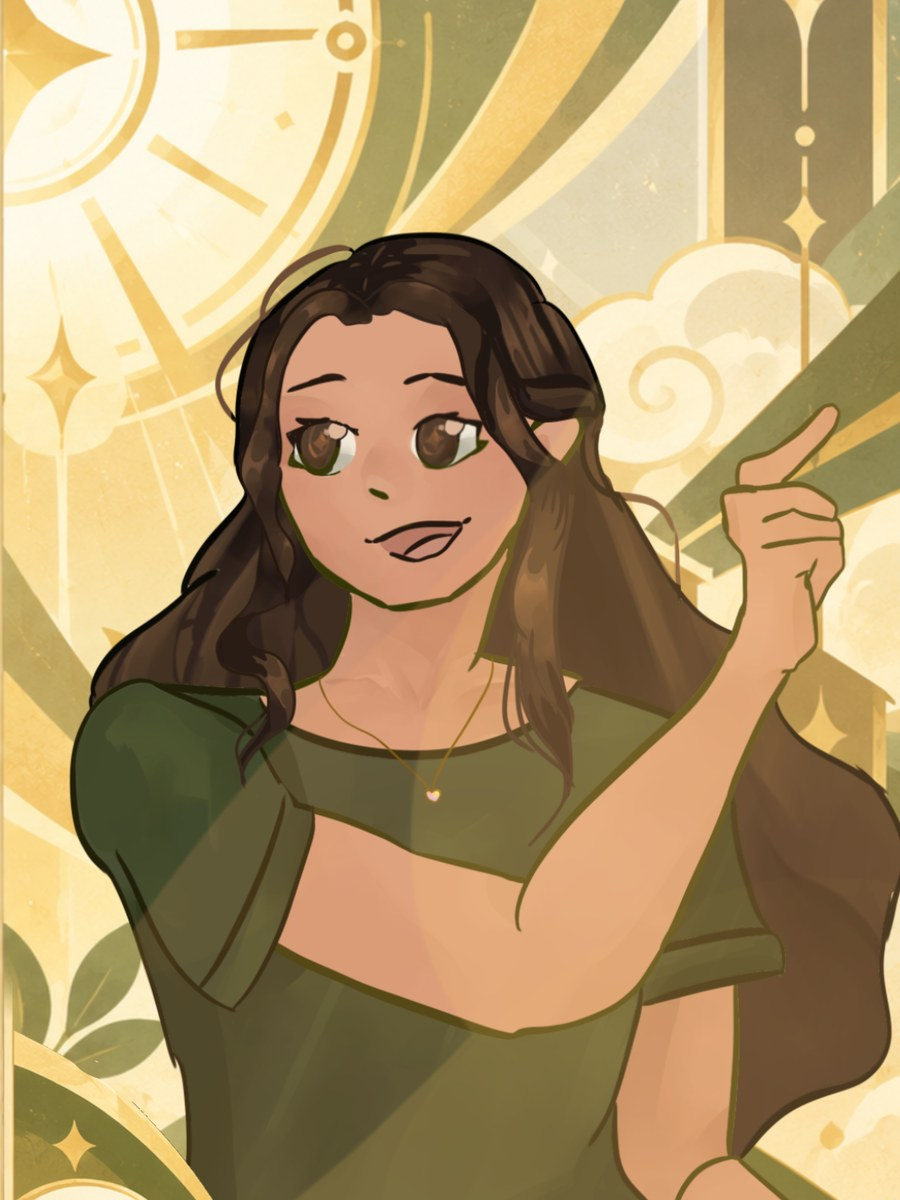
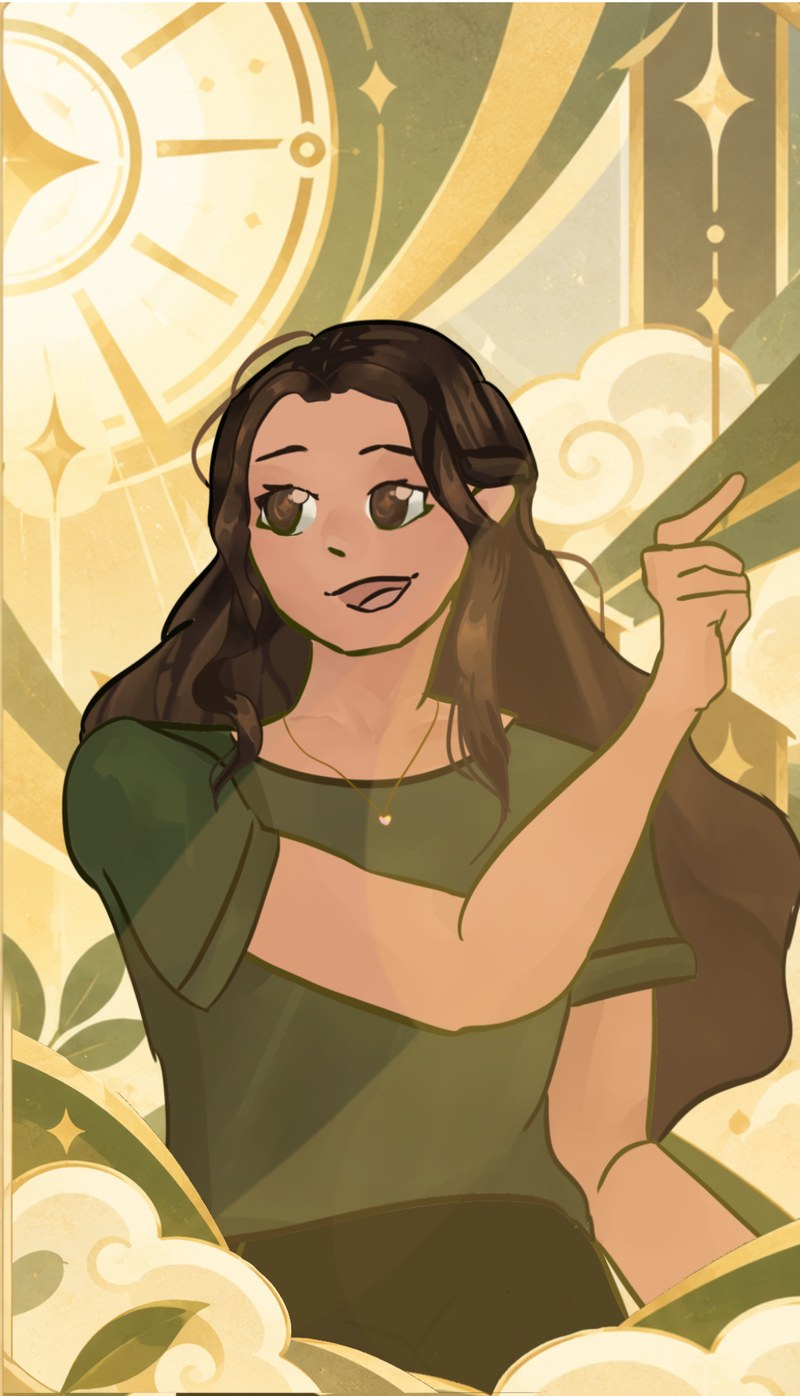
Shape every card to the artwork instead of cropping art to the card
The illustrations are 1060x1850, so a 3:4 card was cutting the bottom off
them. --card-ratio in :root now derives the reveal card, the profile
showcase and the gallery tiles from the art itself, and the two photographs
were re-cropped from their originals to match rather than the reverse.

The reveal card is sized by height (min(540px, 66vh)) so a short window
shrinks it instead of pushing the Enter button off screen. The size lives on
the .card wrapper, not the frame: a block-level box with width:auto fills its
container and that beats aspect-ratio, but a flex item with a definite height
lets the ratio decide the width.

diff --git a/css/card.css b/css/card.css
@@ -14,13 +14,20 @@
   to   { opacity: 1; transform: translateY(0); }
 }
 
-.card { perspective: 1200px; }
+/* The wrapper carries the size. A block-level box with `width: auto` fills its
+   container, which beats aspect-ratio — but as a flex item with a definite
+   height, the ratio decides the width, which is what we want. */
+.card {
+  perspective: 1200px;
+  height: min(540px, 66vh);
+  aspect-ratio: var(--card-ratio);
+}
 
 .card__frame {
   --cut: 22px;
   position: relative;
-  width: 290px;
-  height: 418px;
+  width: 100%;
+  height: 100%;
   overflow: hidden;
   /* the angular silhouette: two corners sliced off */
   clip-path: polygon(

diff --git a/css/base.css b/css/base.css
@@ -34,6 +34,11 @@
 
   /* how big a corner gets cut off. The single knob for "how angular is this" */
   --cut: 14px;
+
+  /* Every card shape derives from this: it is the proportion of the card
+     artwork itself (1060x1850), so the illustrations fit with no cropping
+     and the photographs are cut to match rather than the other way round. */
+  --card-ratio: 1060 / 1850;
 }
 
 @property --accent   { syntax: "<color>"; inherits: true; initial-value: #c9a3ff; }

diff --git a/css/profile.css b/css/profile.css
@@ -25,7 +25,7 @@
 .showcase__card {
   --cut: 26px;
   position: relative;
-  aspect-ratio: 3 / 4.1;
+  aspect-ratio: var(--card-ratio);
   display: grid;
   place-items: center;
   clip-path: polygon(
@@ -226,7 +226,7 @@
 .gal-card {
   --cut: 18px;
   position: relative;
-  aspect-ratio: 3 / 4;
+  aspect-ratio: var(--card-ratio);
   display: grid;
   place-items: center;
   cursor: pointer;
